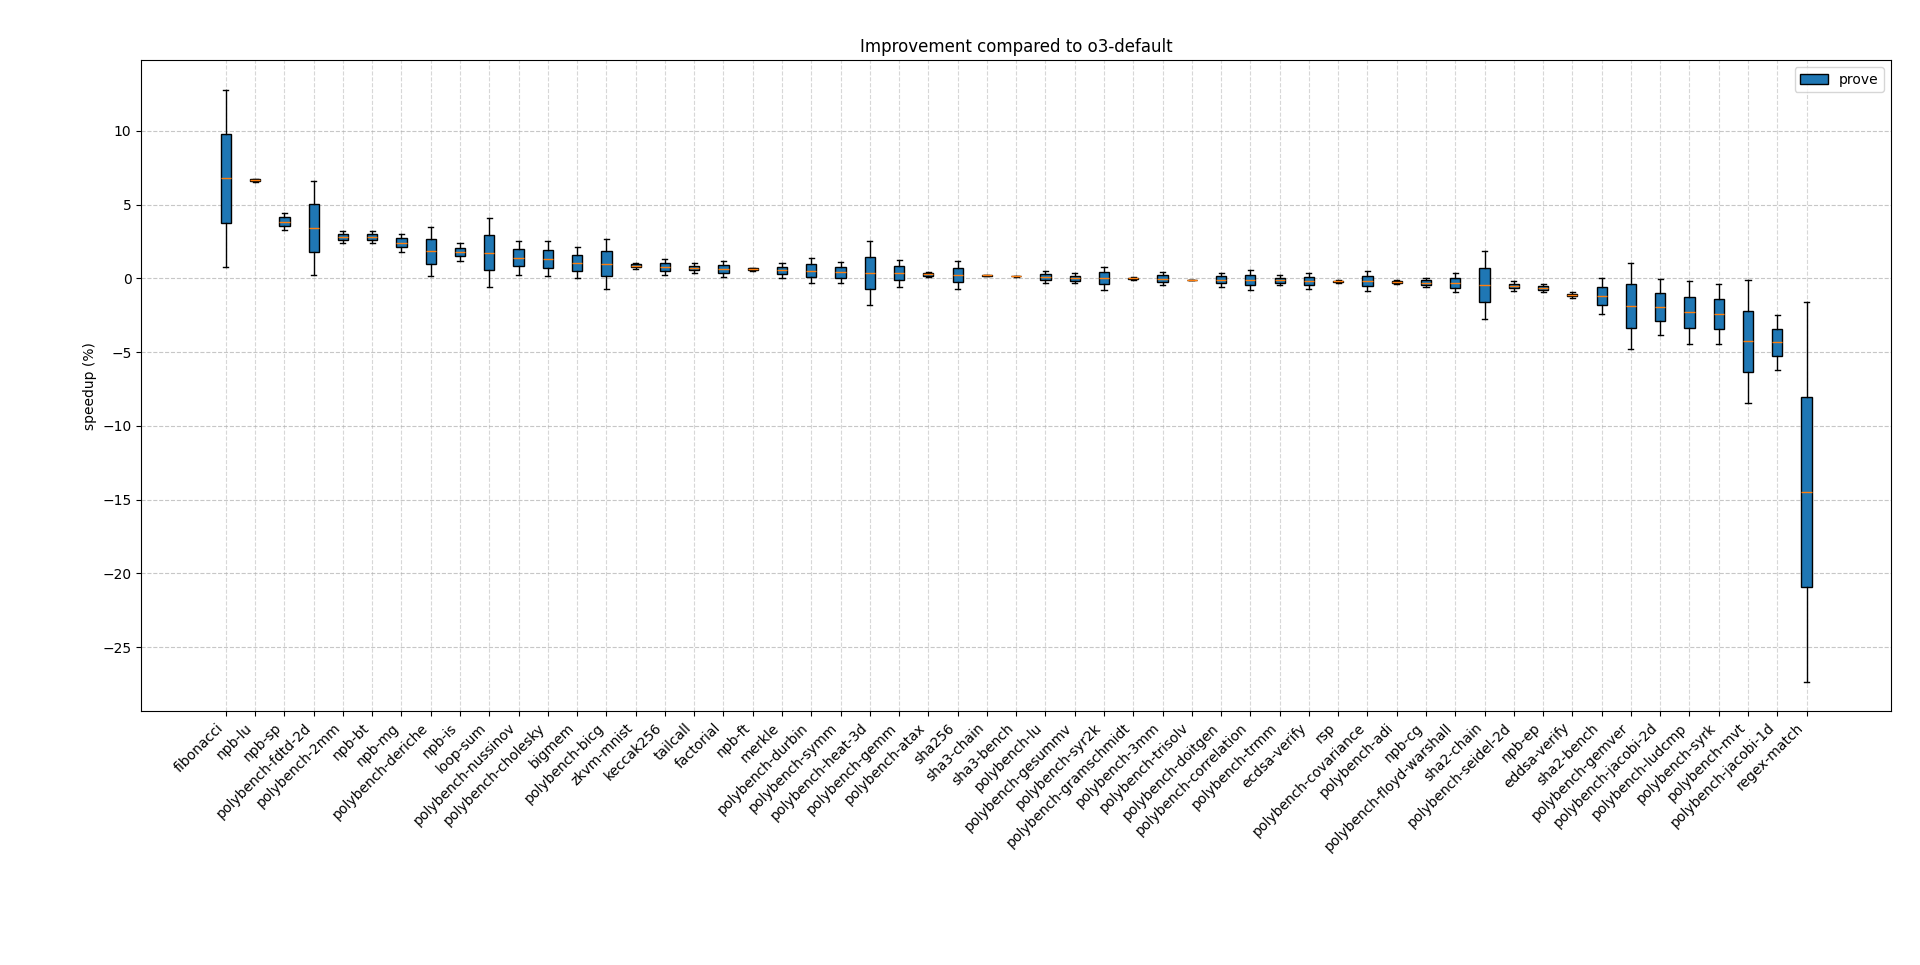
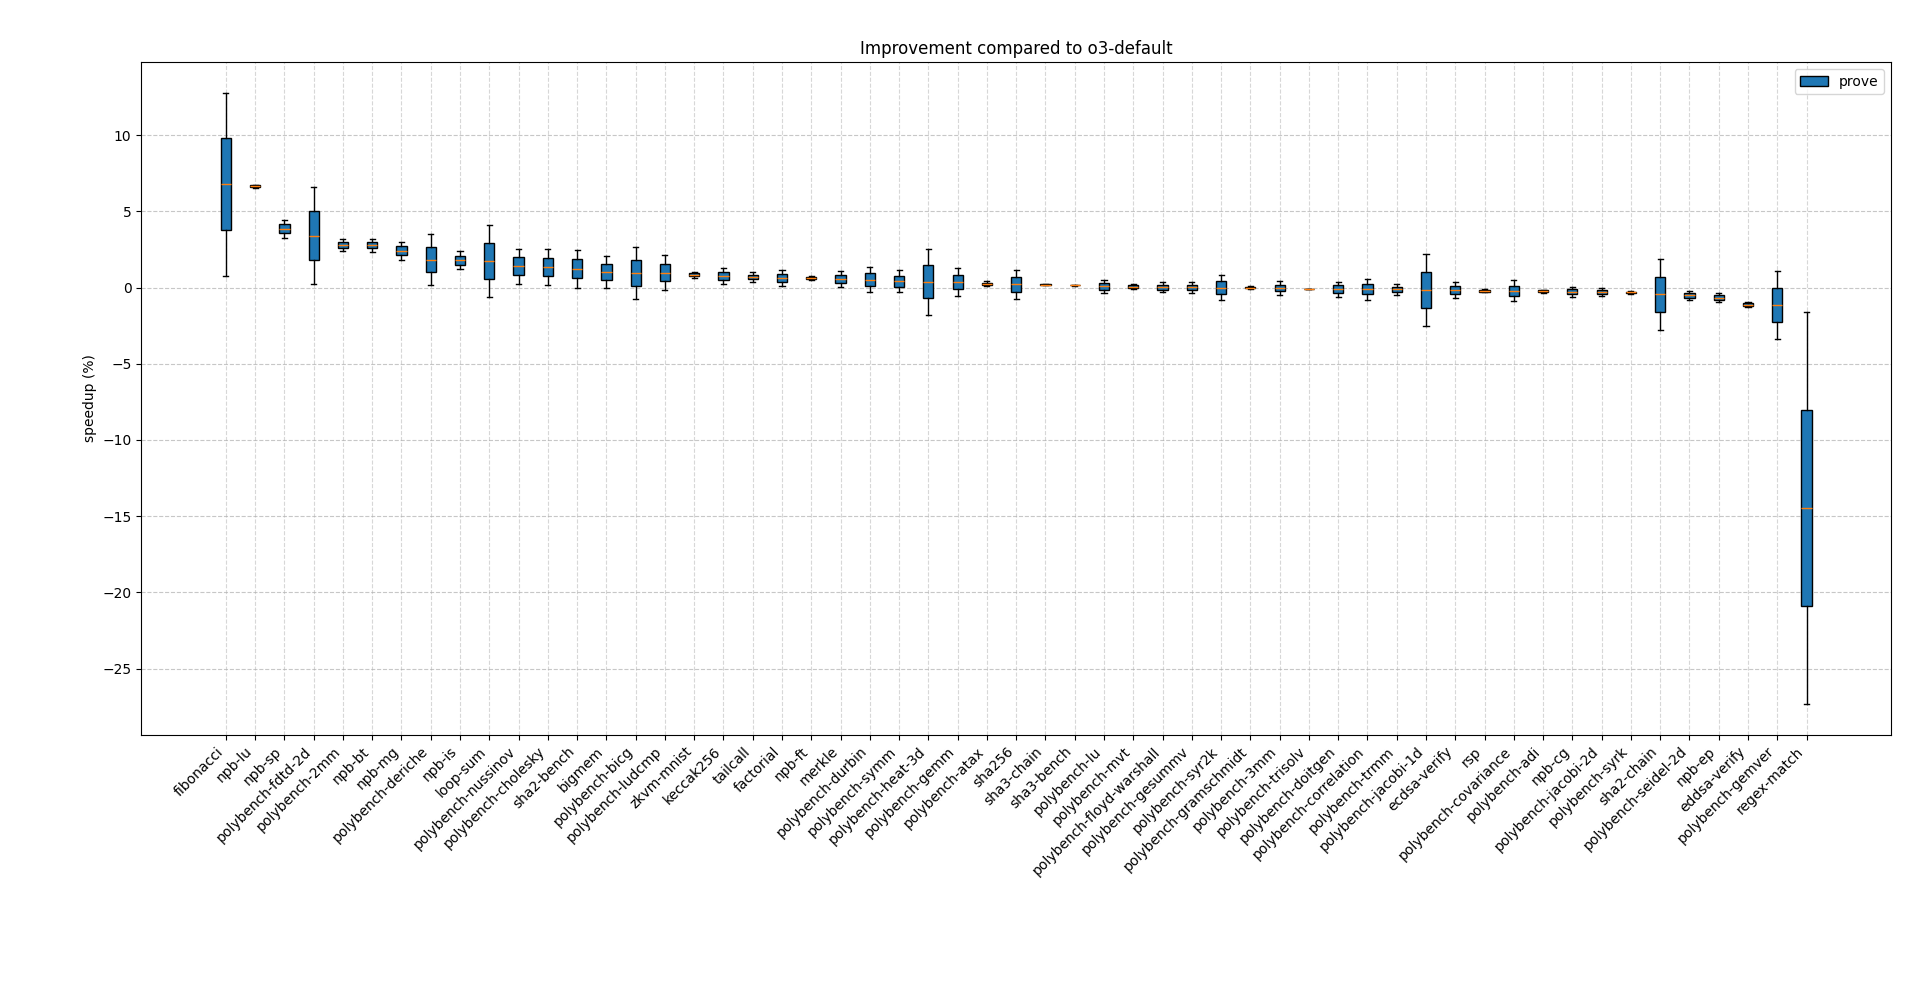
Plots for LLVM modifications

diff --git a/zkbench/plot/plot.py b/zkbench/plot/plot.py
@@ -22,6 +22,7 @@ from zkbench.plot.cycle_count_single_program import plot_cycle_count_for_single_
 from zkbench.plot.duration import plot_duration
 from zkbench.plot.duration_single_program import plot_duration_for_single_program
 from zkbench.plot.improvement_by_program_exec import plot_improvement_by_program_exec
+from zkbench.plot.improvement_profile import plot_improvement_for_profile
 from zkbench.plot.improvement_single_program import plot_improvement_for_single_program
 from zkbench.plot.rca_classify import classify_rca
 from zkbench.plot.stddev import list_by_stddev
@@ -88,7 +89,8 @@ def average_improvement_cli(
 
 
 @click.command(
-    name="average-improvement-zkvm", help="Plot average improvement compared to baseline with each zkVM being a series"
+    name="average-improvement-zkvm",
+    help="Plot average improvement compared to baseline with each zkVM being a series",
 )
 @click.option("--measurement", type=click.Choice(get_measurements()), required=True)
 @click.option("--program", type=click.Choice(get_programs()), required=False)
@@ -360,18 +362,47 @@ def binsize_duration_cli(measurement: str, program: str | None):
     help="Show (average) improvement for some profile compared to some other baseline profile by program",
 )
 @click.option("--profile", type=str, required=True)
-@click.option(
-    "--baseline-profile", type=str, required=True
-)
+@click.option("--baseline-profile", type=str, required=True)
 @click.option("--speedup", type=bool, is_flag=True, required=False, default=False)
 @click.option("--show-x86", type=bool, is_flag=True, required=False, default=False)
-@click.option("--measurement", type=click.Choice(get_measurements()), required=False, default=None)
+@click.option(
+    "--measurement", type=click.Choice(get_measurements()), required=False, default=None
+)
 def improvement_by_program_cli(
-    profile: str, baseline_profile: str, speedup: bool, show_x86: bool, measurement: str | None
+    profile: str,
+    baseline_profile: str,
+    speedup: bool,
+    show_x86: bool,
+    measurement: str | None,
 ):
     dir = click.get_current_context().parent.params["dir"]
 
-    plot_improvement_by_program(dir, profile, baseline_profile, speedup, show_x86, measurement)
+    plot_improvement_by_program(
+        dir, profile, baseline_profile, speedup, show_x86, measurement
+    )
+
+
+@click.command(
+    name="improvement-for-profile",
+    help="Show (average) improvement for some profile compared to some other baseline profile by program",
+)
+@click.option("--profile", type=str, required=True)
+@click.option("--baseline-profile", type=str, required=True)
+@click.option("--speedup", type=bool, is_flag=True, required=False, default=False)
+@click.option("--zkvm", type=click.Choice(get_zkvms()), required=False)
+@click.option("--measurement", type=click.Choice(get_measurements()), required=False)
+def improvement_for_profile_cli(
+    profile: str,
+    baseline_profile: str,
+    speedup: bool,
+    zkvm: str | None,
+    measurement: str | None = None,
+):
+    dir = click.get_current_context().parent.params["dir"]
+
+    plot_improvement_for_profile(
+        dir, profile, baseline_profile, speedup, zkvm, measurement
+    )
 
 
 @click.command(
@@ -379,12 +410,8 @@ def improvement_by_program_cli(
     help="Show (average) improvement for some profile compared to some other baseline profile for a single program",
 )
 @click.option("--program", type=str, required=True)
-@click.option(
-    "--profile", type=str, required=True, multiple=True
-)
-@click.option(
-    "--baseline-profile", type=str, required=True
-)
+@click.option("--profile", type=str, required=True, multiple=True)
+@click.option("--baseline-profile", type=str, required=True)
 @click.option("--speedup", type=bool, is_flag=True, required=False, default=False)
 @click.option("--show-x86", type=bool, is_flag=True, required=False, default=False)
 def improvement_single_program_cli(
@@ -406,9 +433,7 @@ def improvement_single_program_cli(
     help="Show raw duration for some profile compared to some other baseline profile for a single program",
 )
 @click.option("--program", type=str, required=True)
-@click.option(
-    "--profile", type=str, required=True, multiple=True
-)
+@click.option("--profile", type=str, required=True, multiple=True)
 @click.option("--show-x86", type=bool, is_flag=True, required=False, default=False)
 def duration_single_program_cli(
     program: str,

diff --git a/zkbench/plot/improvement_profile.py b/zkbench/plot/improvement_profile.py
@@ -1,0 +1,78 @@
+import logging
+
+from numpy import mean, prod
+
+from zkbench.config import get_programs, get_zkvms
+from zkbench.plot.common import (
+    get_average_improvement_over_baseline,
+    get_sample_times_ms,
+    get_title,
+    plot_grouped_boxplot,
+    read_estimates_data,
+)
+
+
+def plot_improvement_for_profile(
+    dir: str,
+    profile: str,
+    baseline_profile: str,
+    speedup: bool,
+    zkvm: str | None = None,
+    measurement: str | None = None,
+):
+
+    def f(dir, program, zkvm, measurement):
+        return get_average_improvement_over_baseline(
+            dir,
+            zkvm,
+            program,
+            profile,
+            measurement,
+            speedup=speedup,
+            baseline=baseline_profile,
+        )
+
+    title = get_title(
+        f"Improvement compared to {baseline_profile}",
+        [zkvm],
+    )
+
+    programs = []
+    zkvms = get_zkvms() if not zkvm else [zkvm]
+    measurements = [measurement] if measurement else ["prove", "exec"]
+    values = []
+    for measurement in measurements:
+        values.append([])
+
+    for program in get_programs():
+        err = False
+        current_measurements = [[] for _ in measurements]
+        for zkvm in zkvms:
+            try:
+                for i, measurement in enumerate(measurements):
+                    current_measurements[i].append(f(dir, program, zkvm, measurement))
+            except FileNotFoundError:
+                logging.warning(
+                    f"File not found for {program} {zkvm} {profile} {baseline_profile}. Skipping."
+                )
+                err = True
+                break
+        if err:
+            continue
+        programs.append(program)
+        for i, _ in enumerate(measurements):
+            values[i].append(current_measurements[i])
+
+    logging.info(
+        f"Average: {mean(values, axis=1)}"
+    )
+
+    y_axis = "speedup" if speedup else "speedup (%)"
+    plot_grouped_boxplot(
+        values,
+        programs,
+        title,
+        y_axis,
+        measurements,
+        bar_width=0.35,
+    )

diff --git a/zkbench/__main__.py b/zkbench/__main__.py
@@ -31,6 +31,7 @@ from zkbench.plot.plot import (
     export_report_cli,
     improvement_by_program_cli,
     improvement_by_program_exec_cli,
+    improvement_for_profile_cli,
     improvement_single_program_cli,
     khz_cli,
     no_effect_cli,
@@ -391,6 +392,7 @@ plot_cli.add_command(cycle_count_single_program_cli)
 plot_cli.add_command(duration_cli)
 plot_cli.add_command(duration_single_program_cli)
 plot_cli.add_command(average_improvement_zkvm_cli)
+plot_cli.add_command(improvement_for_profile_cli)
 
 plot_tune_cli.add_command(plot_genetic_cli)
 plot_tune_cli.add_command(plot_exhaustive_depth2_cli)
